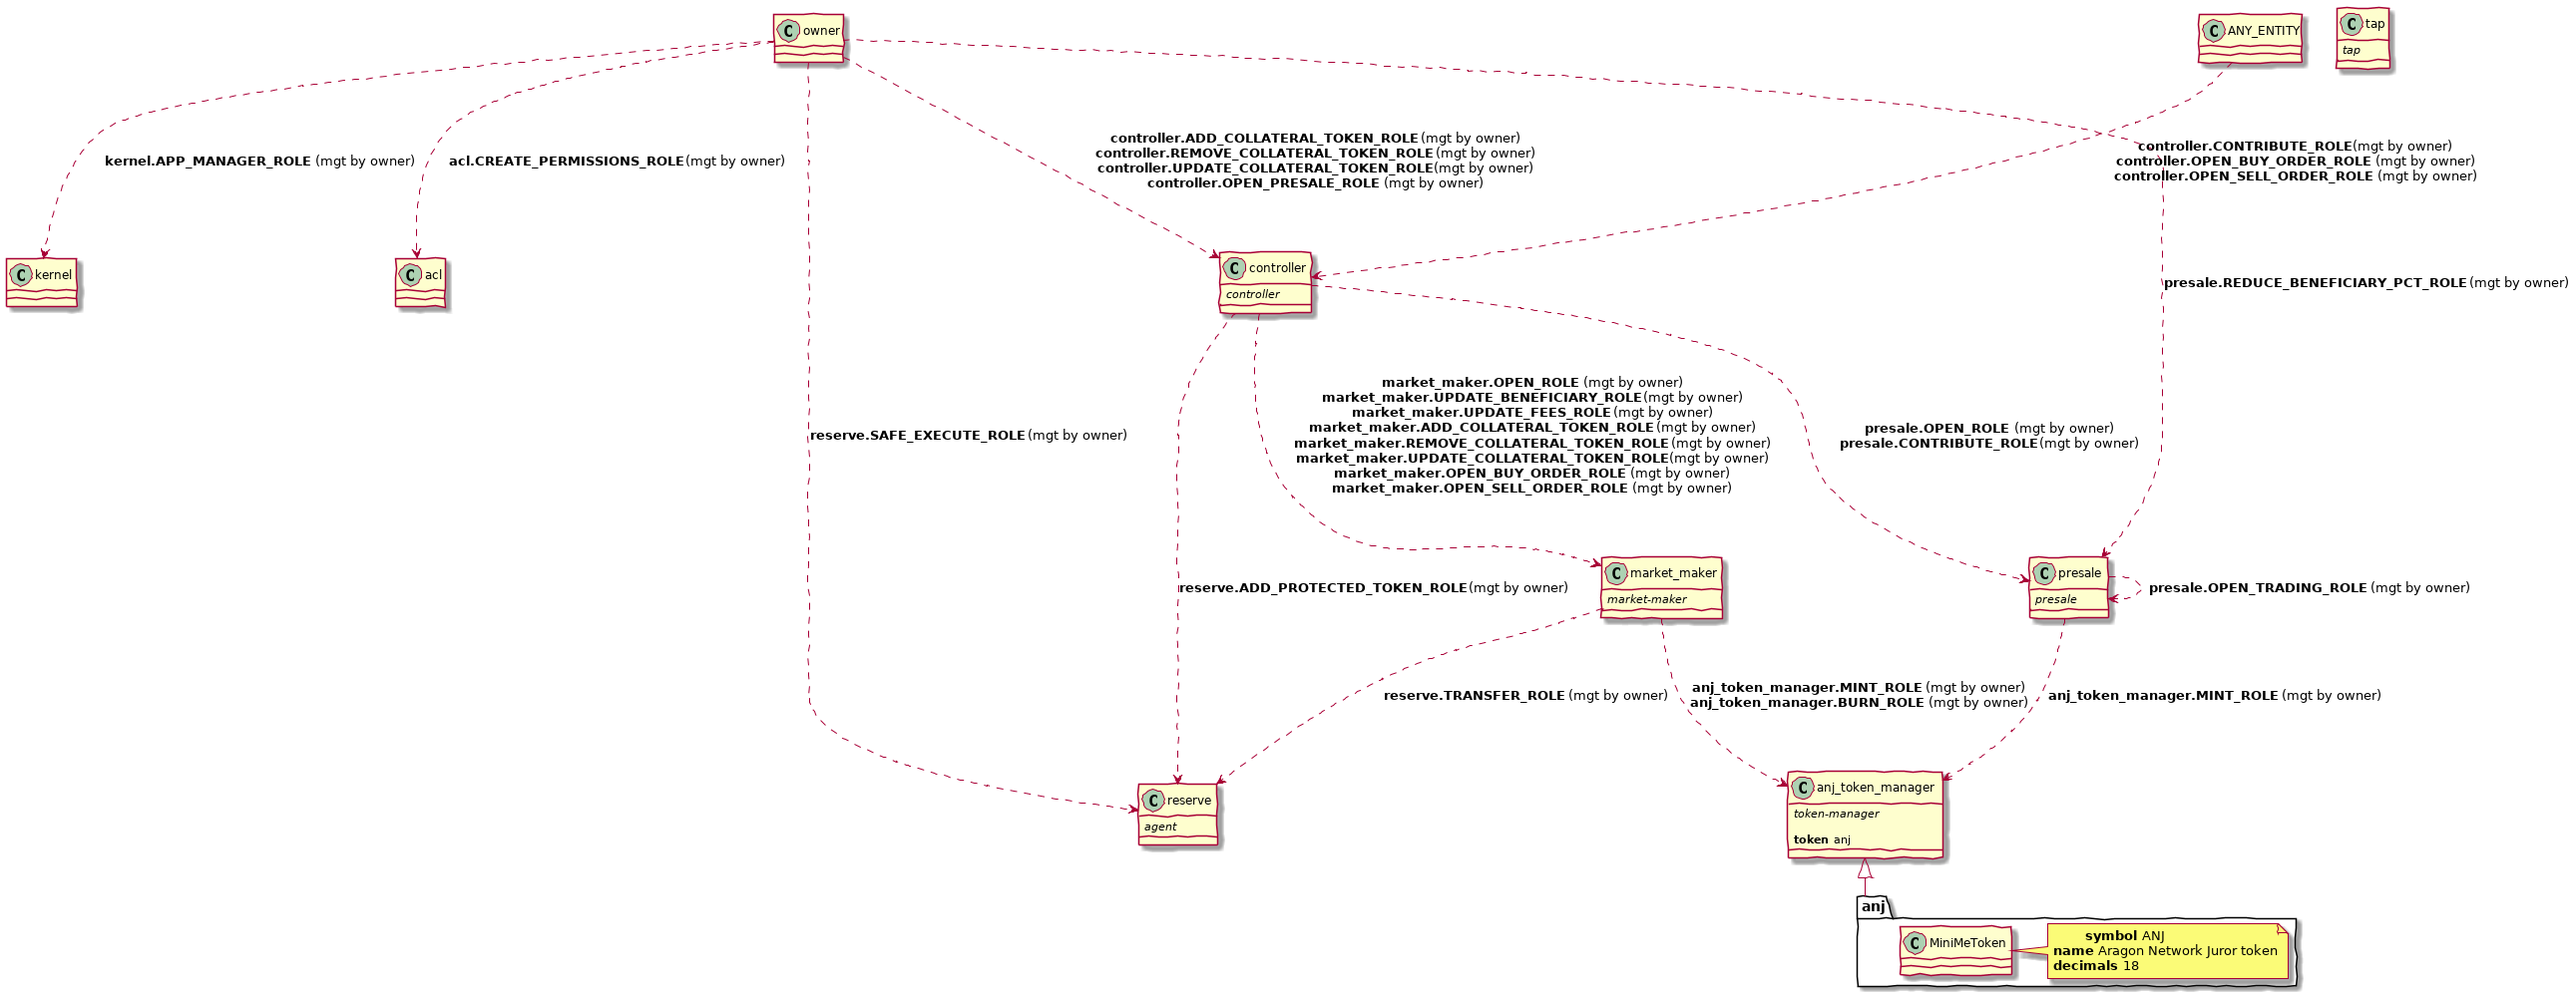
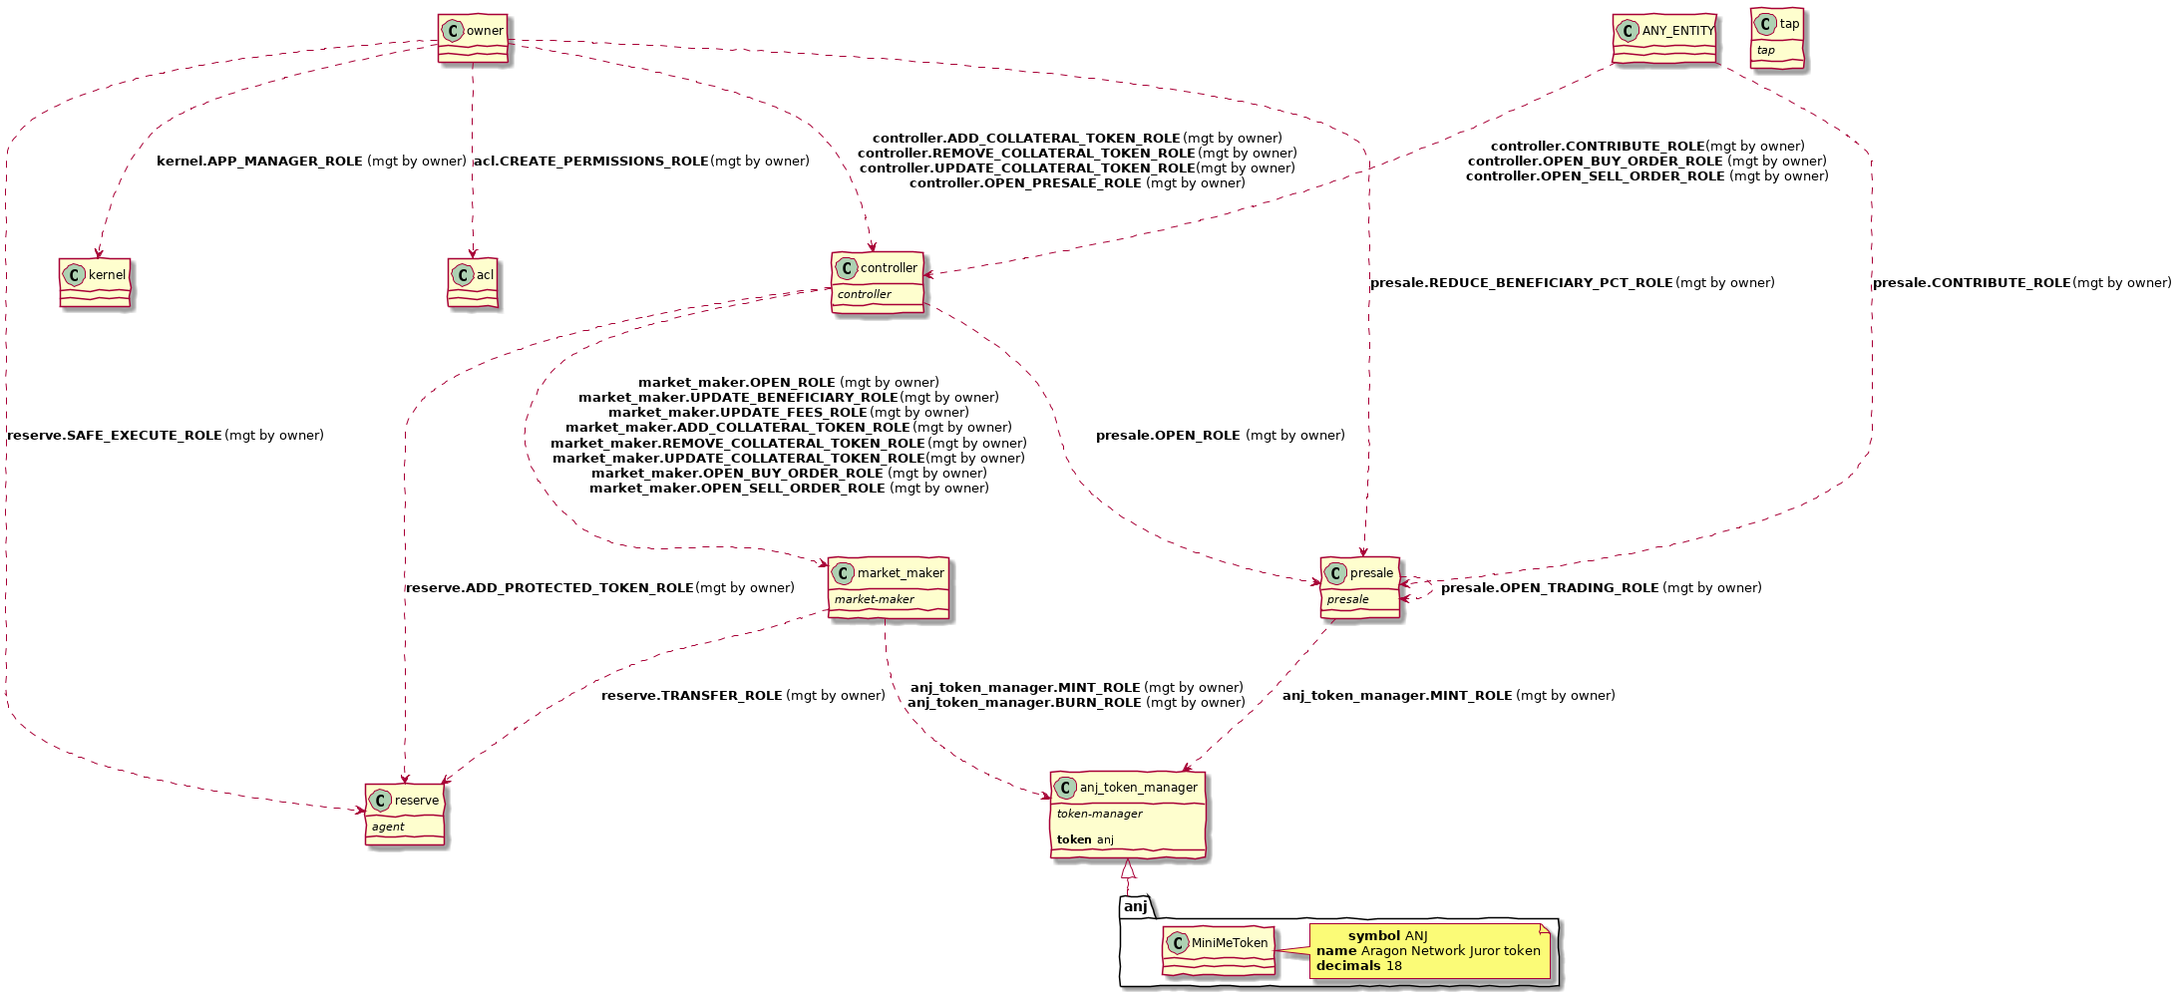
Template: open presale CONTRIBUTE_ROLE

diff --git a/template/README.md b/template/README.md
@@ -77,7 +77,7 @@ _Handle preliminary sale_
 | ------- | ----------             | ---------- | ---------------- |
 | Presale | OPEN                   | Controller | Owner            |
 | Presale | REDUCE_BENEFICIARY_PCT | Owner      | Owner            |
-| Presale | CONTRIBUTE             | Controller | Owner            |
+| Presale | CONTRIBUTE             | Any        | Owner            |
 
 
 #### MarketMaker
